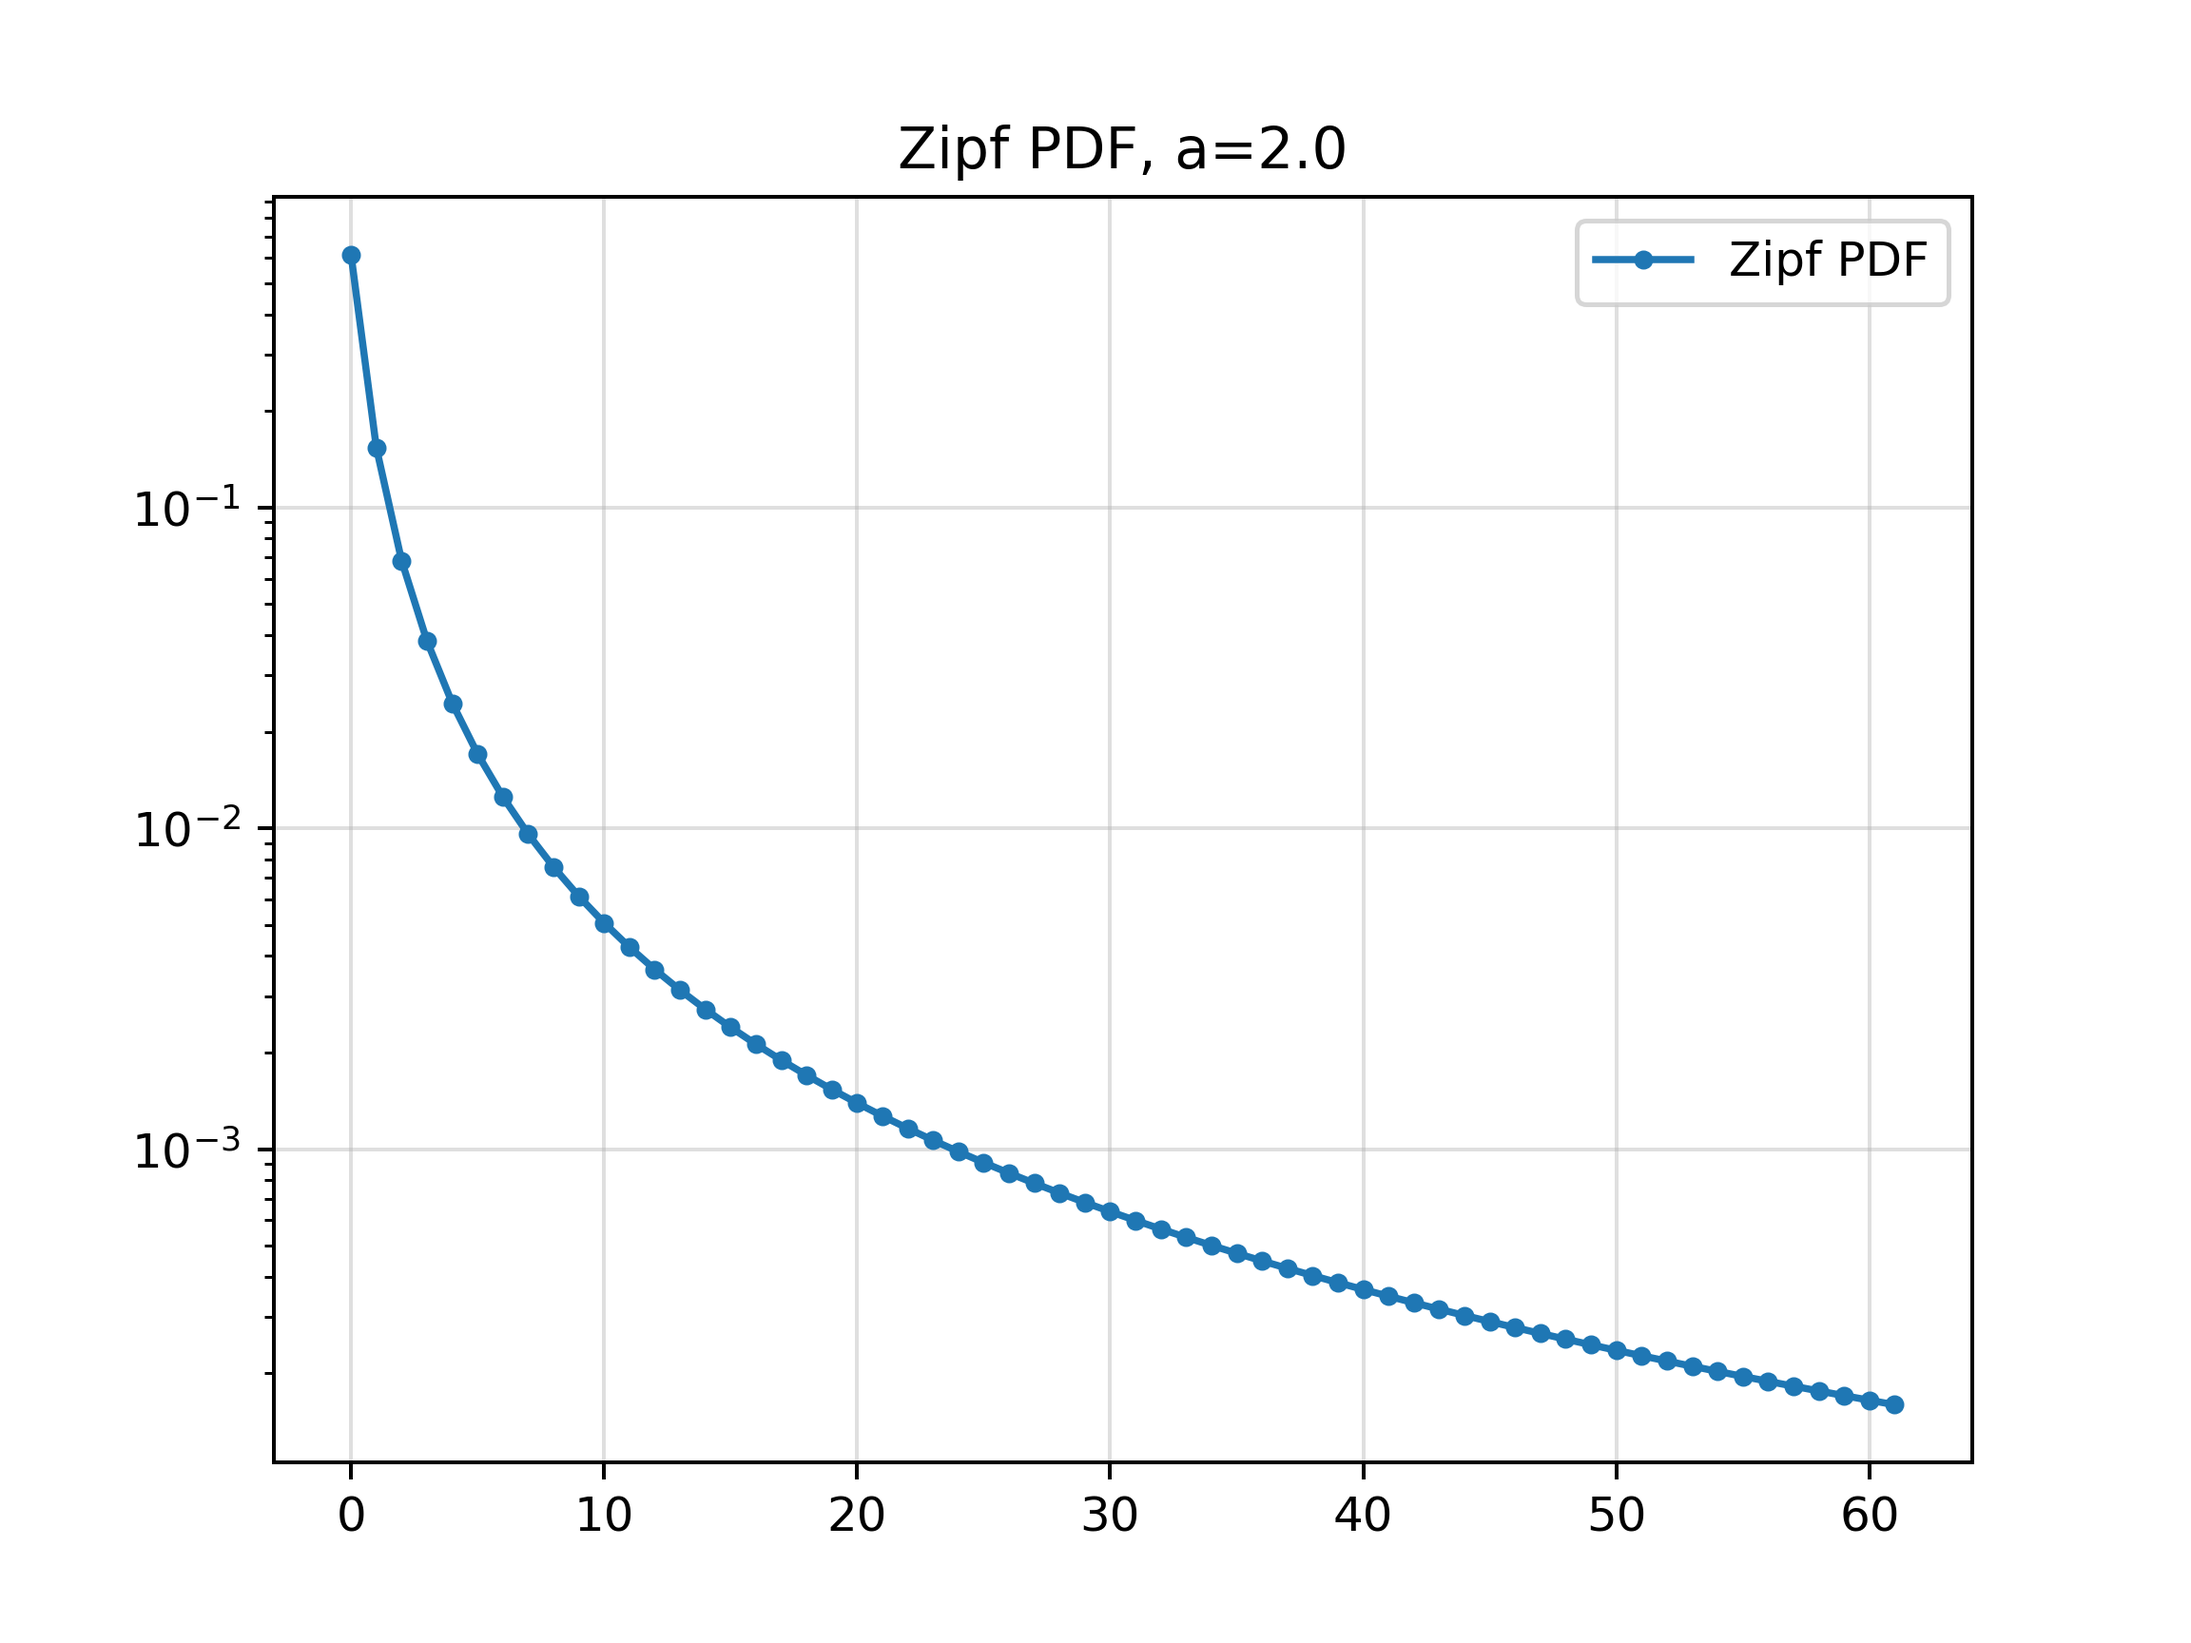
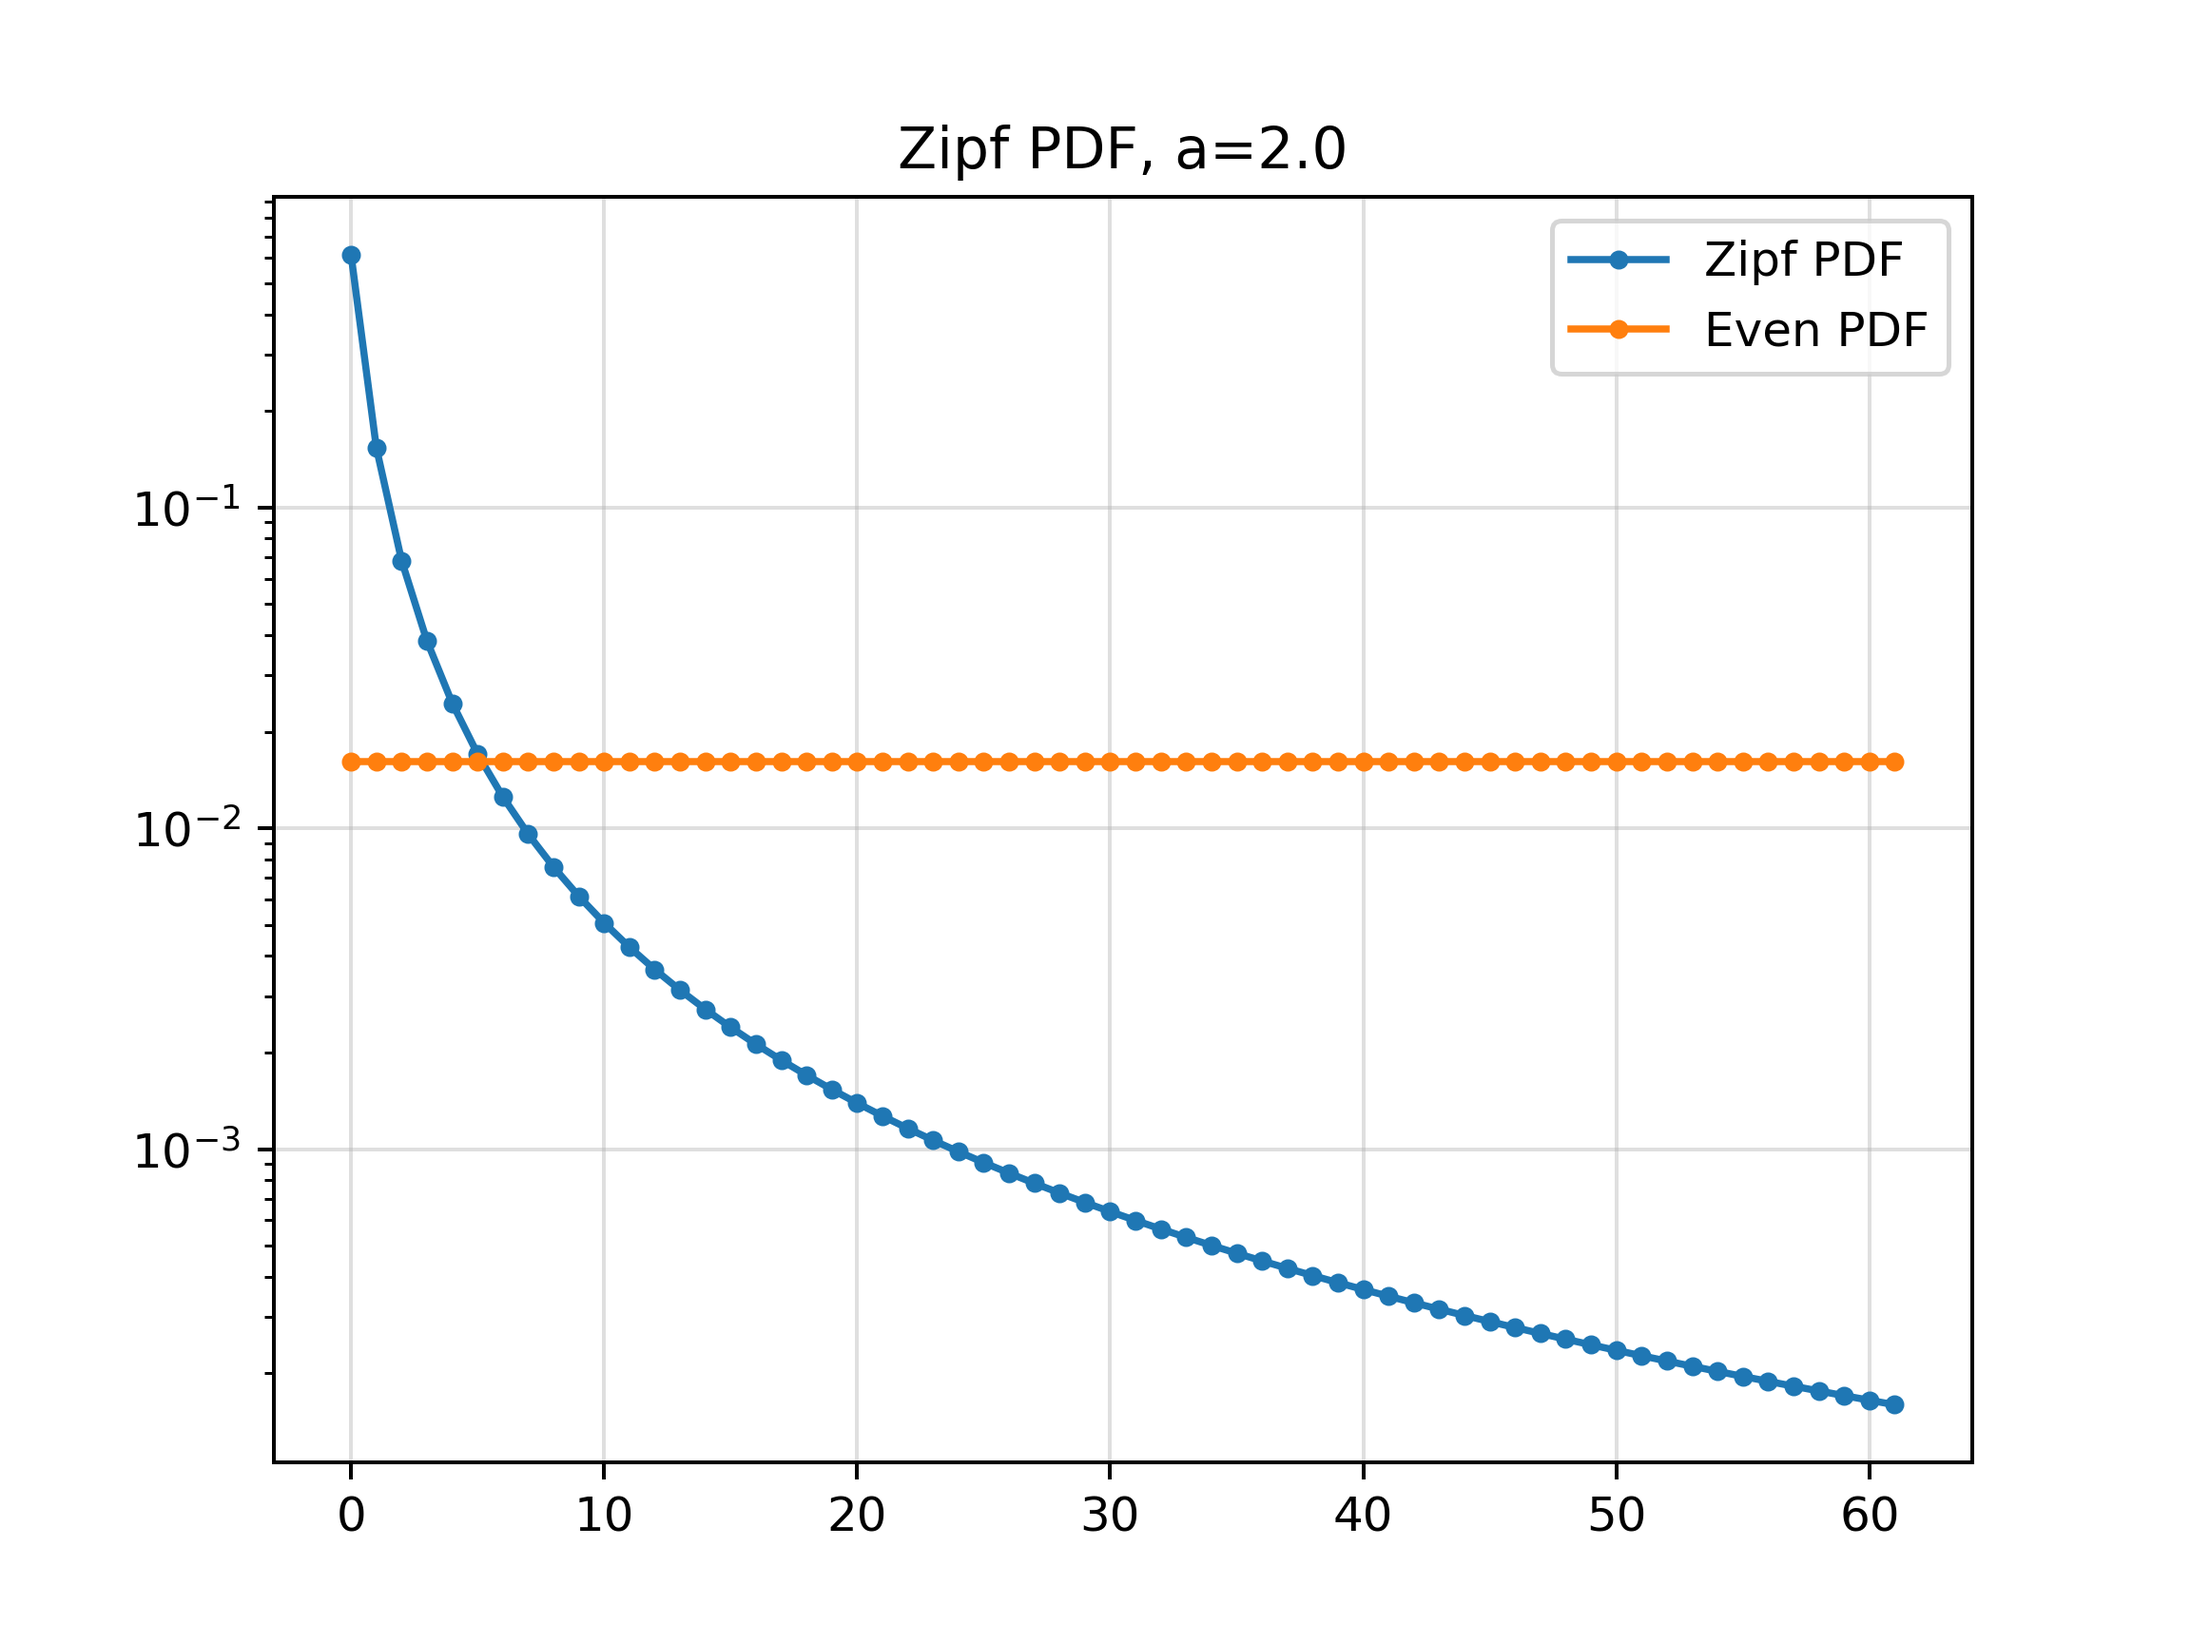
update zipf pdf plot

Changed region(s): [[0.1562, 0.4375, 0.875, 0.4688], [0.7188, 0.125, 0.875, 0.25]]

diff --git a/SampledEMNIST.py b/SampledEMNIST.py
@@ -20,8 +20,9 @@ def get_zipf(a=2.0, n_label=62):
 
 def plot_zipf(a=2.0, n_label=62):
     k = np.arange(1, n_label + 1)
-    nd = get_zipf(n_label)
+    nd = get_zipf(a=a, n_label=n_label)
     plt.plot(k - 1, nd, '.-', label='Zipf PDF')
+    plt.plot(k - 1, np.repeat(1 / n_label, n_label), '.-', label='Even PDF')
     plt.semilogy()
     plt.grid(alpha=0.4)
     plt.legend()
